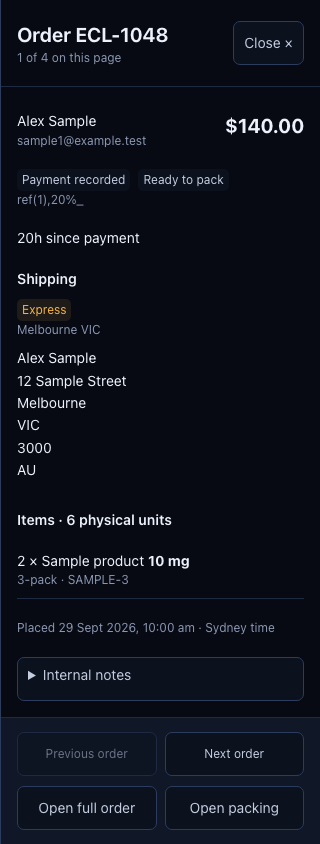
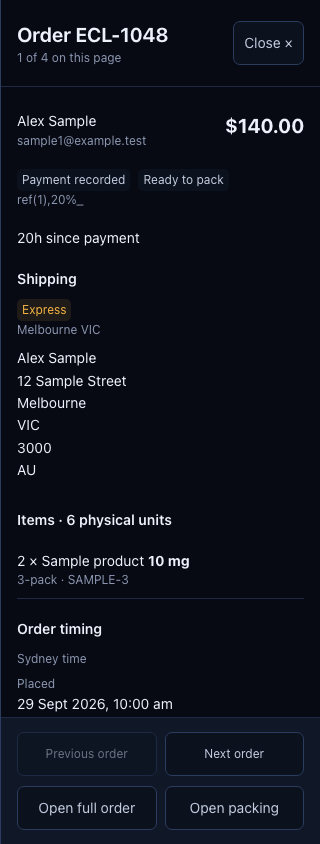
docs(admin): record orders workspace verification and release handoff

diff --git a/docs/admin-orders/2026-10-01-implementation-evidence.md b/docs/admin-orders/2026-10-01-implementation-evidence.md
@@ -1,0 +1,124 @@
+# Admin orders workspace — implementation and release evidence
+
+Implemented locally on `codex/admin-orders-workspace`. The orders page now provides task views, server-backed search/filter/sort, configurable table columns, responsive cards, an order preview drawer, reviewed payment actions, page-scoped bulk actions, and selected-batch packing. Existing payment, inventory, refunds, lot allocation, shipping, audit and email mutations remain authoritative.
+
+Nothing was merged, pushed, deployed, or migrated to a remote database. Three minor UI deviations and two outstanding acceptance gates are listed below.
+
+## Exact revision and location
+
+- Tested application/test commit: **`1f706bffc2f0f4e26e7ed5f7a2ea15eb3bfb13d3`**.
+- Starting commit: `255d4e988e3c7006ea6e6dbd7c72084b6482df91` on `codex/shipping-method-clarity`.
+- Worktree: `/Users/shanakajayakody/eastcoastlabs/.worktrees/admin-orders-workspace`.
+- [Implementation plan and execution ledger](../superpowers/plans/2026-10-01-admin-orders-ux-ui-sol-handoff.md).
+- Additive migration: [20261001100000_admin_order_workspace.sql](../../storefront/supabase/migrations/20261001100000_admin_order_workspace.sql).
+- Review the implementation with `git diff 255d4e988e3c7006ea6e6dbd7c72084b6482df91..1f706bffc2f0f4e26e7ed5f7a2ea15eb3bfb13d3` from this worktree. Subsequent handoff commits contain documentation and refreshed synthetic screenshots only.
+
+The original checkout and its unrelated untracked design studies remain available. The new implementation is in the isolated worktree above.
+
+## Behavior delivered
+
+| Area | Result |
+| --- | --- |
+| Work views | To fulfil, Awaiting payment, Needs attention, Shipped and All orders, with the remaining statuses in More views. Counts use the current filter population. |
+| Search and filtering | Literal order/customer/item/reference search across historical items; Sydney placement dates, discount and shipping filters; stable sorting, 25-order pages, URL state and consistent export scope. |
+| Scannable facts | Shipping service, historical product/size identity, separate payment and fulfilment labels, honest elapsed time, objective issues, purchased lines and frozen physical-unit totals. Missing physical claims stay unavailable. |
+| Personal layout | Reorder/hide optional columns, density, and up to ten named personal views. Stored preferences are per admin and structural; search text, order data and selection are excluded. |
+| Preview | Native dialog with full address, item details, Sydney milestone timestamps, internal notes/activity, page neighbors, safe return links, retry/discard/pending states and focus restoration. Non-finite dates display unavailable. |
+| Payment and bulk | Existing actions with review steps and duplicate-submit protection. Only current-page eligible orders participate. Successes leave selection; failures remain actionable across refresh. Old session-stored failure data is removed when accessible. |
+| Packing | At most 25 explicitly selected IDs, preserved order, changed/missing entries skipped explicitly, and a final return to the supplied orders context. Existing global packing links remain supported. |
+| Security and reads | Admin authorization before route reads; private/no-store JSON and CSV; fixed-path service-only SQL functions; validated RPC payloads; shared SQL scope for rows/counts/export; more than 20,000 export matches produces a useful error. |
+
+Main implementation paths are `storefront/components/admin/OrdersWorkspace.tsx`, the adjacent workspace components, `storefront/lib/admin/order-workspace/`, and `storefront/app/admin/(dashboard)/orders/`. The previous unused table/filter components were removed after their tests were migrated.
+
+## Verification
+
+Run commands from `storefront/` in the implementation worktree. The final checks below cover the code in `1f706bf`; the browser/typecheck runs immediately before that commit used the identical source tree.
+
+| Command | Observed result | Scope |
+| --- | --- | --- |
+| `npm test` | **195 files, 1,202 tests passed**, exit 0 | Unit, component, route-boundary and PGlite suites, including existing commerce regressions. |
+| `npm run typecheck` | Passed, exit 0 | Final nullable timestamp and component interfaces. |
+| `npm run lint` | Passed with no warnings, exit 0 | Repository ESLint configuration. |
+| `npm run build` | Passed, exit 0 | Next production build. |
+| `PREVIEW_PORT=4197 npm run test:browser -- tests/browser/orders-workspace.spec.ts --workers=3` | **29 passed, 4 skipped**, exit 0 | Actual production components in synthetic Vite fixture. The four skips avoid duplicating two desktop-only checks in the two mobile projects. |
+| `npm run check:budgets` | **6/6 passed**, exit 0 | Existing route budgets; no new orders-index budget is claimed. |
+| `npm run test:headers` | **9/9 passed**, exit 0 | Existing private-response checks on an owned loopback production server with app credentials cleared. Admin preview/export no-store behavior also has route unit tests. |
+| `env -u ECL_TEST_PG_URL -u ECL_TEST_PG_CONTAINER npm run test:postgres` | **30/30 passed**, exit 0 | Disposable local Docker PostgreSQL, all migrations, concurrency regressions and 50-table backup/restore. |
+| `git diff --check` | Passed, exit 0 | Whitespace and patch integrity. |
+
+The pre-implementation baseline was 175 files / 1,091 passing tests. No baseline failing tests were accepted. The final unit run printed JSDOM notices for unimplemented document navigation and `scrollTo`; these were not test failures. Browser coverage exercises the real focus/history behavior available in the fixture.
+
+[Captured verification summary](evidence/verification-results.txt) retains inspected output after temporary execution logs are removed. Individual task counts and commit boundaries are preserved in the plan ledger.
+
+### Browser and visual scope
+
+The fixture mounts the real AdminShell, workspace, table/cards, drawer, payment component and bulk bar. Its 40 synthetic orders and action/preview adapters cannot call Supabase, email or carrier services. Navigation updates the fixture URL and rerenders the actual components. The ordinary Vite config excludes the opt-in Next suite.
+
+Verified widths: **320, 390, 768, 1280 and 1440px**. Checks cover scoped Axe WCAG A/AA rules, no horizontal document overflow, one H1, first desktop row within 360px and six ordinary rows within 900px, reduced motion, focus restoration, search continuation after debounce, sticky bulk/header separation, draft protection, request races, partial-failure retry, saved views and denied storage. A clean scoped Axe run is not a complete accessibility certification.
+
+- [Desktop screenshot](evidence/orders-desktop.png)
+- [390px mobile screenshot](evidence/orders-mobile-390.png)
+- [320px drawer screenshot](evidence/orders-drawer-320.png)
+
+All screenshots use synthetic records. Desktop/mobile layout and the narrow drawer were visually inspected. The preview can be reproduced with `PREVIEW_PORT=4197 npm run preview:audit`, then opening `http://127.0.0.1:4197/orders-workspace.html`.
+
+### Database scope and performance limits
+
+PGlite tests execute every migration, actual role-denied calls, frozen multi-pool quantity arithmetic, independent refund settlement totals, a fourth-item search, combined scope/count/export assertions, over-1,000-order pagination, oversized export rejection, DST elapsed time and deterministic UUID ties. Non-finite placement/payment/shipment values are tested from SQL output through the runtime decoder, with unknown-last sorting and unavailable values in the drawer.
+
+The final 10,000-order synthetic PGlite sample took approximately **635ms**, with temporary-buffer use. This sample has no item-heavy workload and is not a production latency estimate. [Query plan](evidence/workspace-query-plan.json) and [item lookup plan](evidence/workspace-item-plan.json) are preserved. The child lookup uses the existing `order_items_order_idx`; no speculative new index was added. Representative staging data, item density and production-scale timing remain release checks.
+
+## Independent review and fixes
+
+A fresh reviewer examined the whole branch from `255d4e9` through `2abe28c`, including the plan's Review Focus and recorded ruling. The reviewer made independent browser/database probes, found no critical issues, and reported five Important and three Minor findings. No items were declined for judgment. The five Important findings were fixed in one pass in `1f706bf`; the full suite then passed 1,202/1,202.
+
+| Important finding | Regression evidence and correction |
+| --- | --- |
+| Search remount lost focus after the 300ms debounce | Component and browser continued-typing tests failed first. Toolbar identity is stable; applied URL state is synchronized without erasing a newer draft. |
+| Payment success appeared on the next unpaid order | Component and browser Next-after-payment tests failed first. Mutation feedback now carries the affected order ID, and the drawer emits one success notice. |
+| PostgreSQL infinity broke the result page/export | Actual SQL-to-decoder test failed first. Non-finite values normalize to null, invalid timing stays flagged, unknowns sort last, and date-filtered searches exclude unavailable placement dates. |
+| Legacy customer-bearing failure storage survived | Session-storage cleanup tests failed first, including unavailable local preference storage. Cleanup targets the original session key independently. |
+| Preview omitted payment/shipment milestones | Missing-milestone render test failed first. The drawer now shows placement, payment and shipment records in Sydney time, including explicit unavailable values. |
+
+Browser acceptance earlier also found and fixed a mobile saved-view popover extending beyond the viewport and a sticky bulk bar covering sort headers. Those scenarios remain covered.
+
+### Deferred minors
+
+1. Payment cells show the payment/refund state and reference but omit the available payment method.
+2. A separately labelled **Search all orders** control is absent. Choosing **All orders** already preserves the current query.
+3. The Paid and Processing views default to waiting time; the design specifies newest placement. Operators can select Date placed explicitly.
+
+These are recorded deviations, not claims of full design parity. They were retained as Minor findings under the execution workflow's review policy.
+
+### Ruling made during execution
+
+Client-safe date validation was kept in the parameter layer without importing `order-queries`, which imports server database code. The server continues using the established Sydney day-boundary helper. **Cost if wrong:** client/server date-boundary drift; DST and exact filter-argument tests cover that risk.
+
+## Outstanding acceptance gates
+
+1. **Authenticated real Next suite: NOT RUN.** The config refused to start because `ECL_ADMIN_ORDERS_BASE_URL` and `ECL_ADMIN_ORDERS_STORAGE_STATE` were not supplied. The Vite fixture and mocked route tests do not prove real App Router history, server refresh retention, deployed authentication or full-order/batch navigation. The opt-in spec exists for those checks.
+2. **Native browser zoom at 200%: NOT RUN.** Automated CSS zoom reflow passed; it is not equivalent to a native browser zoom check. Complete native zoom and a manual keyboard pass before release.
+
+For the real Next gate, supply a disposable local or dedicated `ecl-admin-orders-test*.vercel.app` target with the migration applied, a test-admin storage-state file, and `ECL_ADMIN_ORDERS_TEST_ORDER_ID` for a synthetic pending order. Supply two paid synthetic IDs in `ECL_ADMIN_ORDERS_TEST_BATCH_IDS` for packing navigation. The config rejects production/unrecognized hosts and URL credentials. Run:
+
+```sh
+npx playwright test --config playwright.admin-orders.config.ts
+```
+
+The mutation case additionally requires `ECL_ADMIN_ORDERS_ALLOW_MUTATIONS=disposable` and authorization for that environment. Keep test identity/provider/email data synthetic and configure outbound integrations accordingly. No authentication bypass was added. Missing IDs otherwise skip cases; inspect the final count before calling this gate passed.
+
+## Release checklist — prepared, not executed
+
+1. Identify the deployment revision containing `1f706bf` and review the recorded minor deviations. Verify the database's existing migration history before applying anything.
+2. In the safe test environment, apply `20261001100000_admin_order_workspace.sql` through the existing migration workflow **before** running the matching application revision. The page depends on the new RPCs.
+3. Confirm all five `admin_order_workspace*` functions have fixed search paths; PUBLIC, anon and authenticated cannot execute them; service_role can. Exercise list, single-order facts and export shapes with the service-role test harness. Do not expose that key in a browser.
+4. Run the real Next gate above and native zoom/manual keyboard checks. On representative staging data, measure combined filters, counts and exports with realistic line-item/claim density. Check deployment response limits and latency for a large allowed export; 20,000 is a row cap, not a proven hosting payload allowance.
+5. Obtain user authorization for the concrete production migration/deployment. Then apply the tested additive migration first and deploy the approved application revision. This handoff does not authorize those external actions.
+6. Smoke-test read-only default/legacy views, literal search, Sydney date filters, counts, sorting/pagination, matching CSV, preview, direct order link, full-order return link and selected-batch navigation. Confirm non-admin reads are denied and private responses are not cached.
+7. Any production payment, refund, stock, packing, dispatch or email mutation tests require separately authorized disposable orders. Existing automated checks do not justify mutating real customer orders as a smoke test.
+
+## Rollback
+
+Redeploy the prior application revision first if the new workspace needs rollback. Leave the additive read-only functions in place initially: they neither mutate commerce records nor change existing mutation signatures. Do not drop them while any application revision still references them. No commerce-data rollback is introduced by this feature; any separately performed operational mutation remains an ordinary audited commerce action.
+
+The branch and worktree are preserved for review. Temporary plan-execution scratch data can be removed after this evidence, final task ledger and fixes are committed.

diff --git a/docs/superpowers/plans/2026-10-01-admin-orders-ux-ui-sol-handoff.md b/docs/superpowers/plans/2026-10-01-admin-orders-ux-ui-sol-handoff.md
@@ -10,7 +10,7 @@
 
 **Spec:** The embedded [Design contract](#2-design-contract) is the specification for this plan. It incorporates the user's orders-page brainstorming request and the recommended table-plus-drawer direction. Earlier admin-revamp and fulfilment documents are supporting context, not authorization to implement other areas or deploy.
 
-**Plan status:** Written for user review and handoff on 1 October 2026. No application implementation, migration execution, deployment, or production-data verification occurred while writing it. Handing this plan to an executor with an instruction to implement authorizes implementation within this scope; it does not authorize production deployment.
+**Execution status:** Local implementation and independent review are complete on `codex/admin-orders-workspace`, tested code commit `1f706bf`. Consult the execution ledger before doing work; do not restart completed tasks. Three minor deviations remain recorded, and real authenticated Next acceptance plus native browser zoom are outstanding gates. See [implementation evidence](../../admin-orders/2026-10-01-implementation-evidence.md). Nothing was merged, pushed, deployed or migrated remotely. The original plan was written on 1 October 2026; production deployment still requires separate authorization.
 
 ## Global constraints
 
@@ -277,7 +277,7 @@ export interface OrderWorkspaceRow {
   total_cents: number;
   refunded_cents: number;
   refund_settled_cents: number;
-  created_at: string;
+  created_at: string | null; // Non-finite legacy values normalize to unavailable.
   paid_at: string | null;
   shipped_at: string | null;
   payment_method: string | null;
@@ -896,22 +896,30 @@ If new evidence contradicts one of these decisions, record the concrete conflict
 
 ## 7. Execution ledger
 
-The executor fills this with actual evidence. The unchecked state is intentional: this handoff documents future work and does not claim implementation.
+The rows below are the execution record. Procedural checkboxes above retain the original handoff instructions; they are not a second status tracker. Counts are observed task-scoped runs at the listed commits, followed by final whole-branch checks at `1f706bf`.
 
 | Task | State | Commit | Verification / limitation |
 | --- | --- | --- | --- |
-| 1 — Contracts | Not started | None | None run |
-| 2 — SQL read model | Not started | None | None run |
-| 3 — Queries/export | Not started | None | None run |
-| 4 — Preferences/views | Not started | None | None run |
-| 5 — Workspace/toolbar | Not started | None | None run |
-| 6 — Table/cards | Not started | None | None run |
-| 7 — Preview/drawer | Not started | None | None run |
-| 8 — Bulk actions | Not started | None | None run |
-| 9 — Packing batch | Not started | None | None run |
-| 10 — Route integration | Not started | None | None run |
-| 11 — Browser acceptance | Not started | None | None run |
-| 12 — Review/release handoff | Not started | None | None run |
+| 1 — Contracts | Implemented | `a6193ed` | 2 files / 20 tests passed; final review notes Paid/Processing default-sort deviation. |
+| 2 — SQL read model | Implemented | `33942e8`, `6004fd6` | 4 files / 39 tests passed; synthetic 10,000-order query plan inspected. |
+| 3 — Queries/export | Implemented | `5c42b1c` | 3 files / 20 tests passed; exact scope and malformed-payload tests. |
+| 4 — Preferences/views | Implemented | `72903cd` | 2 files / 11 tests passed; corrupt/denied storage and per-admin isolation. |
+| 5 — Workspace/toolbar | Implemented | `28c98e0` | 3 files / 14 tests passed; functional URL harness; separate Search all orders control deferred. |
+| 6 — Table/cards | Implemented | `5031238` | 6 files / 30 tests passed; existing shipping/size/action coverage retained; payment method display deferred. |
+| 7 — Preview/drawer | Implemented | `492d525` | 6 files / 22 tests passed; auth, request races, review, discard and pending states. |
+| 8 — Bulk actions | Implemented | `48462ed` | 4 files / 11 tests passed; current-row eligibility and retained failures. |
+| 9 — Packing batch | Implemented | `9b57510` | 6 files / 27 tests passed; exact selected IDs and legacy navigation. |
+| 10 — Route integration | Implemented | `8821301` | 7 files / 22 tests passed; live list/export moved together, legacy behavior tests migrated. |
+| 11 — Browser acceptance | Fixture verified; real Next/native zoom pending | `2abe28c` | Initially 26 browser passes / 4 intentional skips; final 29 passes / 4 skips after review fixes. Safe authenticated environment not supplied. |
+| 12 — Review/release handoff | Local review and handoff complete | `1f706bf` plus documentation commit | Five Important findings fixed RED→GREEN; 195 files / 1,202 tests, typecheck, lint, build, 29 browser cases, 30 native PostgreSQL checks, 6 budgets and 9 headers pass. Release/rollback and remaining gates documented. |
+
+Final review covered `255d4e9..2abe28c` with a fresh reviewer. Fix commit `1f706bf` preserves search focus, scopes payment notices to their order, normalizes non-finite timestamps, removes obsolete session failure data, and displays payment/shipment milestone times. The full suite passed after those fixes. There were no declined-to-judge items.
+
+**Ruling:** Client-safe date validation stays in the parameter layer instead of importing the server database query module. Cost if wrong: date boundary drift; DST/filter-argument tests cover this risk.
+
+**Deferred minors:** Payment cells omit the available method; a separately labelled Search all orders action is absent although the All orders tab preserves search; Paid/Processing default to waiting time instead of newest placement, with manual sorting available.
+
+**Unverified gates:** Authenticated real Next history/refresh/navigation needs `ECL_ADMIN_ORDERS_BASE_URL`, `ECL_ADMIN_ORDERS_STORAGE_STATE` and synthetic IDs. Native 200% browser zoom needs manual verification; CSS zoom reflow passed. See the [evidence and release checklist](../../admin-orders/2026-10-01-implementation-evidence.md) for exact setup and limits.
 
 ## 8. Research and supporting references
 
